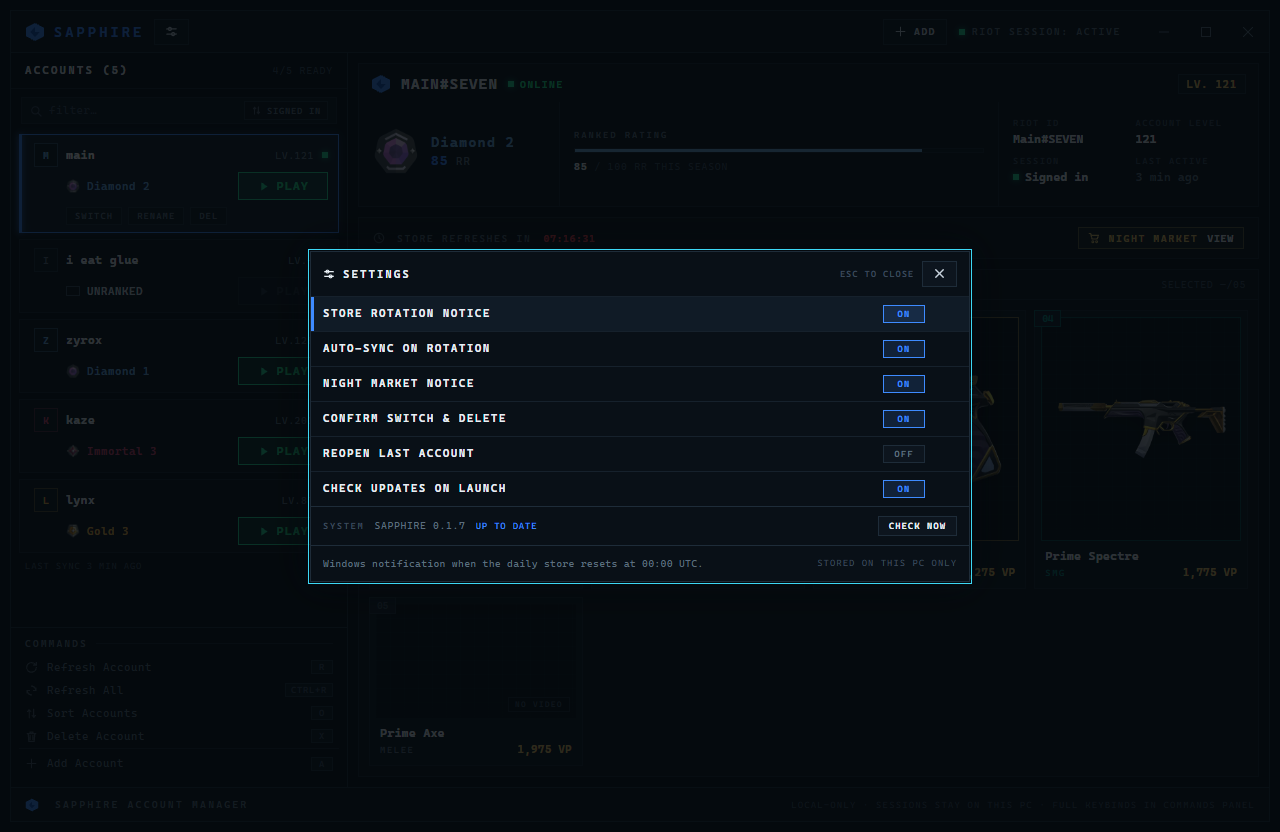
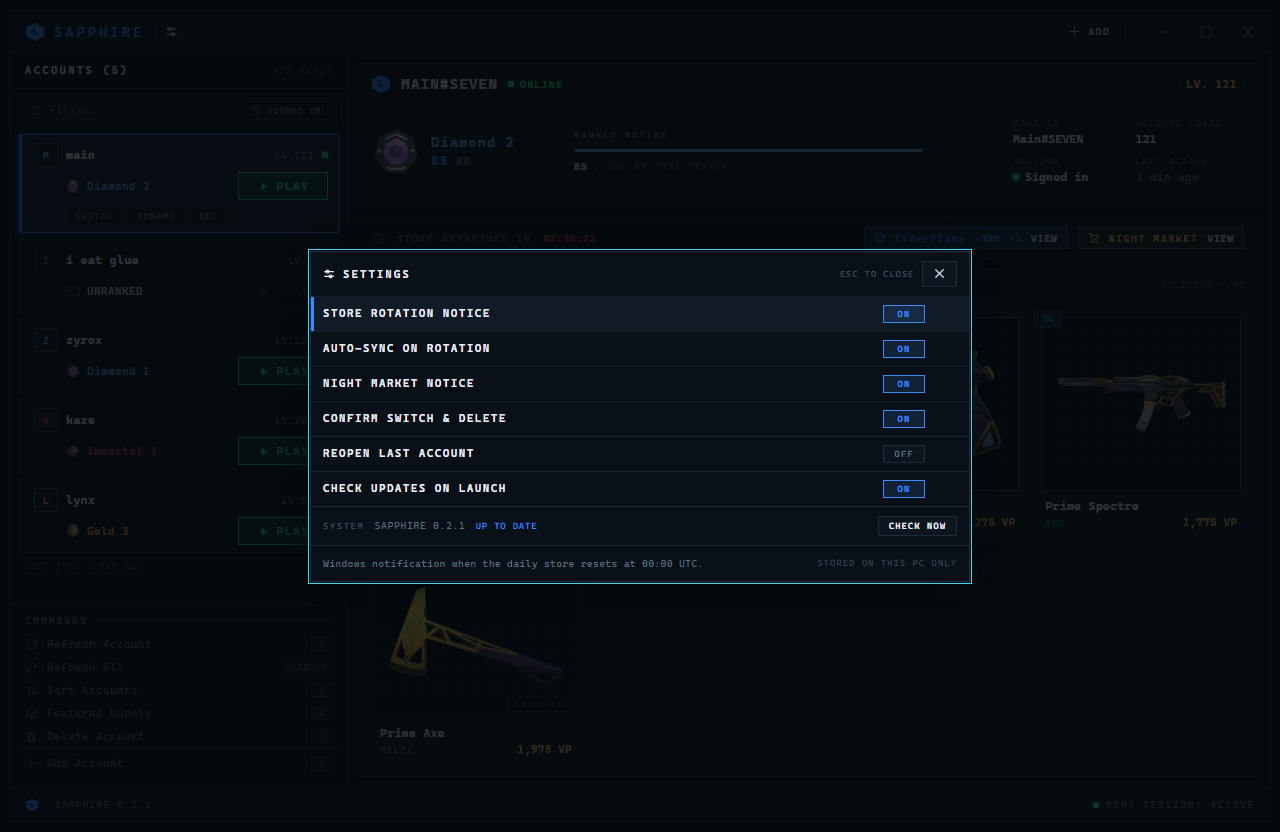
docs: correct four claims the app had outgrown, and refresh the three screenshots
Found by checking each claim against the code rather than against the last time it was written.

THE PORTABLE BUILD IS NOT PUBLISHED. Installation told the reader to run the portable `.exe` instead of
installing, and every release carries exactly one asset — the installer. `pickInstaller` accepts only
`Sapphire Setup <version>.exe`, so the portable has never been attached to any release, going back to
v0.1.1. It is still produced by `npm run package:win`; it is just not distributed. The download link was
also wrong: `../../releases` resolves to `github.com/releases` (404) rather than to this repository's
releases page, which is what the README's other relative links do.

A SETTING WAS MISSING. The table listed five rows; the panel has six. NIGHT MARKET NOTICE was added and
never documented. The table now also carries each row's default, and names the four preferences that
deliberately live outside the panel — HIDE SKIN PREVIEWS, ACCOUNT SORT, SHOWCASE SOUND and SHOWCASE
VOLUME — since a reader looking for them in the panel would not find them.

THE COMMANDS PANEL IS A SUBSET, NOT THE SAME LIST. The shortcuts section said the sidebar held "the same
list". It holds five entries, chosen as the ones not already written next to their own control. `[` and
`]` — the bundle tabs, added with the second-bundle work — were in no list at all; they are in the table
now. `Enter` closing the bundle and Night Market pages on its way to the store is documented too, since
[…]

diff --git a/README.md b/README.md
@@ -9,14 +9,14 @@ A Windows desktop app for viewing the daily Valorant store across saved Riot Cli
 - Daily store for every saved account: skin names, rendered art, VP prices, and a countdown to the rotation.
 - Every offer is framed in its skin's tier colour, so the tier reads at a glance without a label.
 - Night Market, when Riot is running one: that account's six discounted offers, sorted by tier and then by discount, each drawn in its own tier colour and marked once opened.
-- Featured bundle, when Riot is selling one: the bundle's key art, its discount and countdown, and every item inside it — weapon skins, melee, buddy, spray and player card — each with its own price, its tier colour where it has one, and the showcase video behind a **PREVIEW** button.
+- Featured bundles, when Riot is selling one or two: each bundle's key art, its own discount and countdown, and every item inside it — weapon skins, melee, buddy, spray and player card — each with its own price, its tier colour where it has one, and the showcase video behind a **PREVIEW** button. When two are on sale, a tab per bundle switches between them; each keeps its own end date, because Riot runs them on different clocks.
 - Skin previews — upgrade levels and colour variants — in a modal, with a volume slider that persists across skins and restarts.
 - Riot ID, account level, competitive rank, RR and placement progress, per account.
 - Save and switch Riot Client sessions, or import them from TCNO Account Switcher.
 
 ## Installation
 
-Download [`Sapphire Setup <version>.exe`](../../releases) and run it. The portable `Sapphire <version>.exe` runs without installing.
+Download [`Sapphire Setup <version>.exe`](releases) and run it. That installer is the only asset a release carries: the portable build is produced by `npm run package:win` but is not published, because the updater only ever runs the installer and two 96 MB assets per release is a cost with no reader.
 
 > Windows may show a SmartScreen warning: the installer is not code-signed. After that, updates come from inside the app ([Updates](#updates)), and saved accounts in `%APPDATA%\valorant-account-manager` survive them.
 
@@ -31,14 +31,14 @@ Download [`Sapphire Setup <version>.exe`](../../releases) and run it. The portab
 4. **Open the market view** with `M` — the store on its own, larger. `H` collapses the offer previews.
 5. **Preview a skin** with `P`, which plays the in-game video of the offer you are pointing at. The cards are not buttons: the only thing to click inside one is its **PREVIEW** button.
 6. **Open the Night Market** when Riot is running one — a `NIGHT MARKET VIEW` entry appears in the `STORE REFRESHES IN` row, and lists that account's discounted offers. `Esc` goes back.
-7. **Open the Featured Bundle** when Riot is selling one — a second entry in the same row carries the bundle's name and its discount. `B` opens it too, and `Esc` goes back. Items whose price is included in the bundle read `INCLUDED` rather than `0 VP`; items with showcase video carry a **PREVIEW** button.
+7. **Open the Featured Bundle** when Riot is selling one — an entry in the same row carries the bundle's name and its discount, and `B` opens it too. Riot usually runs a promo bundle alongside the main one, so there is still only **one** entry: a `+1` beside the discount says another bundle is on sale, and the page carries a tab per bundle to switch between them (`[` / `]` step through them). Items whose price is included in the bundle read `INCLUDED` rather than `0 VP`; items with showcase video carry a **PREVIEW** button. `Esc` goes back.
 8. **Switch the Riot session to an account** with `S`, or with a row's own **SWITCH** button: the saved session is restored and Riot Client opens. The account you switched to becomes the selected one — the details panel and the daily store below it describe that account, not the one you came from — and a store page that is already open follows it too, so nothing on screen keeps describing a session you are no longer signed into.
 
 Riot Client must be running and signed in before the app can read a session. Its install location does not matter: Sapphire reads where this PC put it, so another drive is fine.
 
 ## Keyboard shortcuts
 
-The app is keyboard-first; the same list is in the **Commands** panel in the sidebar.
+The app is keyboard-first. The **Commands** panel in the sidebar carries the ones that are not already written next to their own control — it is a subset, not the whole map; the table below is the whole map.
 
 | Key | Action |
 | --- | --- |
@@ -53,12 +53,15 @@ The app is keyboard-first; the same list is in the **Commands** panel in the sid
 | `O` | Cycle the account sort order |
 | `M` | Toggle the market view |
 | `B` | Toggle the featured bundle page |
+| `[` / `]` | Step between bundles, when Riot is selling more than one |
 | `A` | Add an account |
 | `X` | Delete the selected account |
 | `I` | Import detected TCNO accounts (when available) |
 | `Esc` | Close the open panel or preview |
 | `F11` | Toggle fullscreen |
-| `Q` | Quit |
+| `Q` | Quit, after a confirmation |
+
+`Enter` and `M` both open the market view; `Enter` closes the bundle and Night Market pages on its way, so pressing it from either of them lands on the store rather than appearing to do nothing.
 
 ## Settings
 
@@ -66,13 +69,16 @@ Open the panel with the button next to the app name in the header. `↑`/`↓` m
 
 | Setting | What it does |
 | --- | --- |
-| STORE ROTATION NOTICE | Windows notification when the daily store resets at 00:00 UTC. |
-| AUTO-SYNC ON ROTATION | Pull every saved account automatically at the reset. |
-| CONFIRM SWITCH & DELETE | Ask before restarting Riot Client or deleting a saved account. Defaults to on. |
-| REOPEN LAST ACCOUNT | Reopen the account you were viewing last, instead of the signed-in one. |
-| CHECK UPDATES ON LAUNCH | One small request to GitHub at startup. CHECK NOW works either way. |
+| STORE ROTATION NOTICE | Windows notification when the daily store resets at 00:00 UTC. On by default. |
+| AUTO-SYNC ON ROTATION | Pull every saved account automatically when the store resets. On by default. |
+| NIGHT MARKET NOTICE | One Windows notification when a Night Market opens for a saved account. On by default. |
+| CONFIRM SWITCH & DELETE | Ask before restarting Riot Client or deleting a saved account. On by default. |
+| REOPEN LAST ACCOUNT | Select the account you were viewing last, instead of the signed-in one. Off by default. |
+| CHECK UPDATES ON LAUNCH | One small request to GitHub when the app starts. `CHECK NOW` works either way. On by default. |
 
 A row that differs from its default is marked in blue and carries a `↺` that resets just that row. Preferences are stored locally; nothing is sent anywhere.
+
+Four preferences live outside this panel, next to the thing they change: **HIDE SKIN PREVIEWS** is the `H` key, **ACCOUNT SORT** is the `O` key and the sidebar's sort button, and **SHOWCASE SOUND** / **SHOWCASE VOLUME** are the buttons on the showcase overlay itself. They persist exactly like the rows above.
 
 The last row, **SYSTEM**, shows the running version and the update state, with **CHECK NOW**.
 
@@ -88,18 +94,35 @@ Install once; after that the app updates itself from this repository's GitHub Re
 
 The `×` hides the notice for the session only and never skips the version, so the SYSTEM row in settings keeps showing it. Saved accounts and sessions are untouched by an update. The download is checked against the SHA-256 published with the release before it runs — that shows the file arrived intact, not who published it, since the installers are unsigned. A release with no digest is refused.
 
+### Where the space goes
+
+An installer leaves its own scratch behind: the payload it unpacks, the executable it moves aside when replacing one, and a copy of itself. Measured on one machine after four updates, that came to **2.1 GB** — and every update adds roughly another 900 MB.
+
+Sapphire sweeps it on every launch. Nothing to run and nothing to configure; the first launch after installing this version reclaims whatever earlier updates left, and every launch after that keeps it at zero.
+
+Two delays are deliberate. A directory is left alone for its first ten minutes, because an installer sitting on its "choose a folder" prompt is holding its scratch open and looks exactly like a leftover. A downloaded installer is left for an hour, because a failed install is retried from that file. Both are then collected on a later launch.
+
+Only directories that are provably Sapphire's are touched — the check reads this build's own `app-update.yml` inside them, or the executable NSIS moved aside when it matches the one Sapphire is running as. Another Electron app's scratch, which looks identical, is left alone.
+
 ### Publishing a release
 
 One asset: the installer. Attach it to a normal release — drafts and prereleases are ignored by the updater, and the portable build is not needed.
 
 ```powershell
-npm version patch --no-git-tag-version
+npm version patch --no-git-tag-version    # 0.2.1 -> 0.2.2
 npm run package:win
-git tag v0.1.4
+git tag v0.2.2
 git push origin main --tags
 ```
 
-Then create the release for that tag with `release\Sapphire Setup <version>.exe` attached.
+Then create the release for that tag with `release\Sapphire Setup 0.2.2.exe` attached, and name the tag `v<version>` so the updater's version comparison sees it.
+
+Upload it through GitHub's release UI or API rather than by pasting the file anywhere else: GitHub records the SHA-256 of what it stores, and the updater refuses a release whose asset has no digest — so an asset that arrives without one silently stops offering the update.
+
+Two failure modes worth knowing, because both are quiet:
+
+- **A version that does not increase is invisible.** The updater compares numerically, so `0.2.10` is correctly newer than `0.2.9` — but re-uploading a *rebuilt* `0.2.1` over an existing `0.2.1` reaches nobody, because `0.2.1` is not newer than `0.2.1`. Ship a new version instead.
+- **An asset whose name does not match is ignored.** The updater looks for `Sapphire Setup <version>.exe` (with the spaces GitHub turns into dots, which it accepts too). A release with only the portable build attached reads as "no installer" and stops offering the update.
 
 ## Development
 
